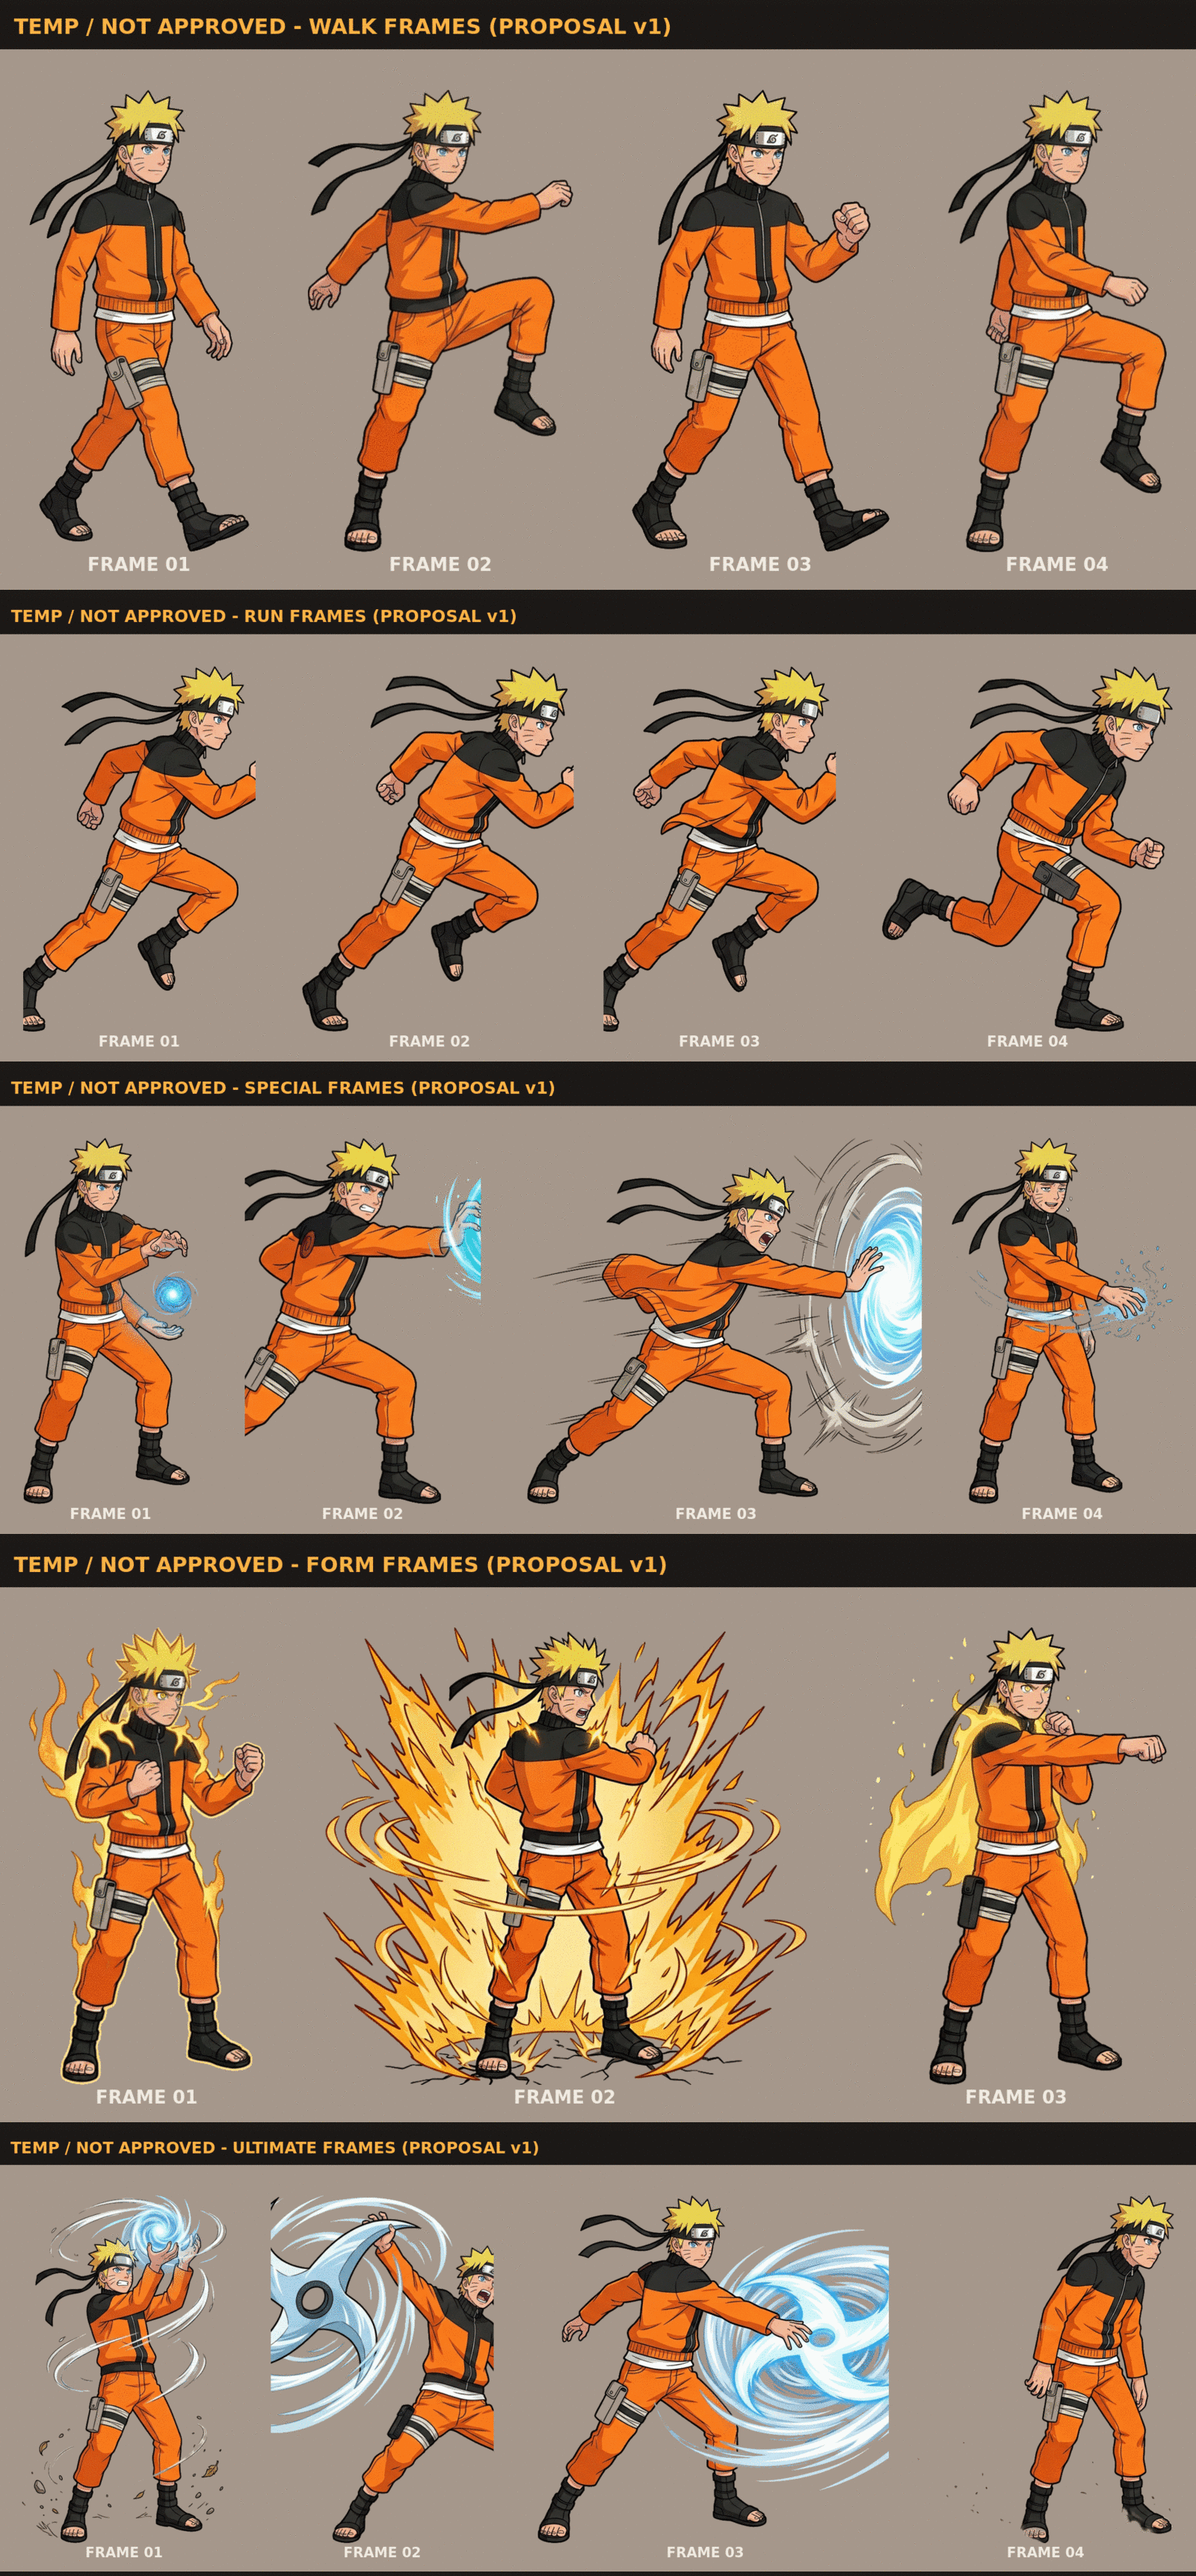
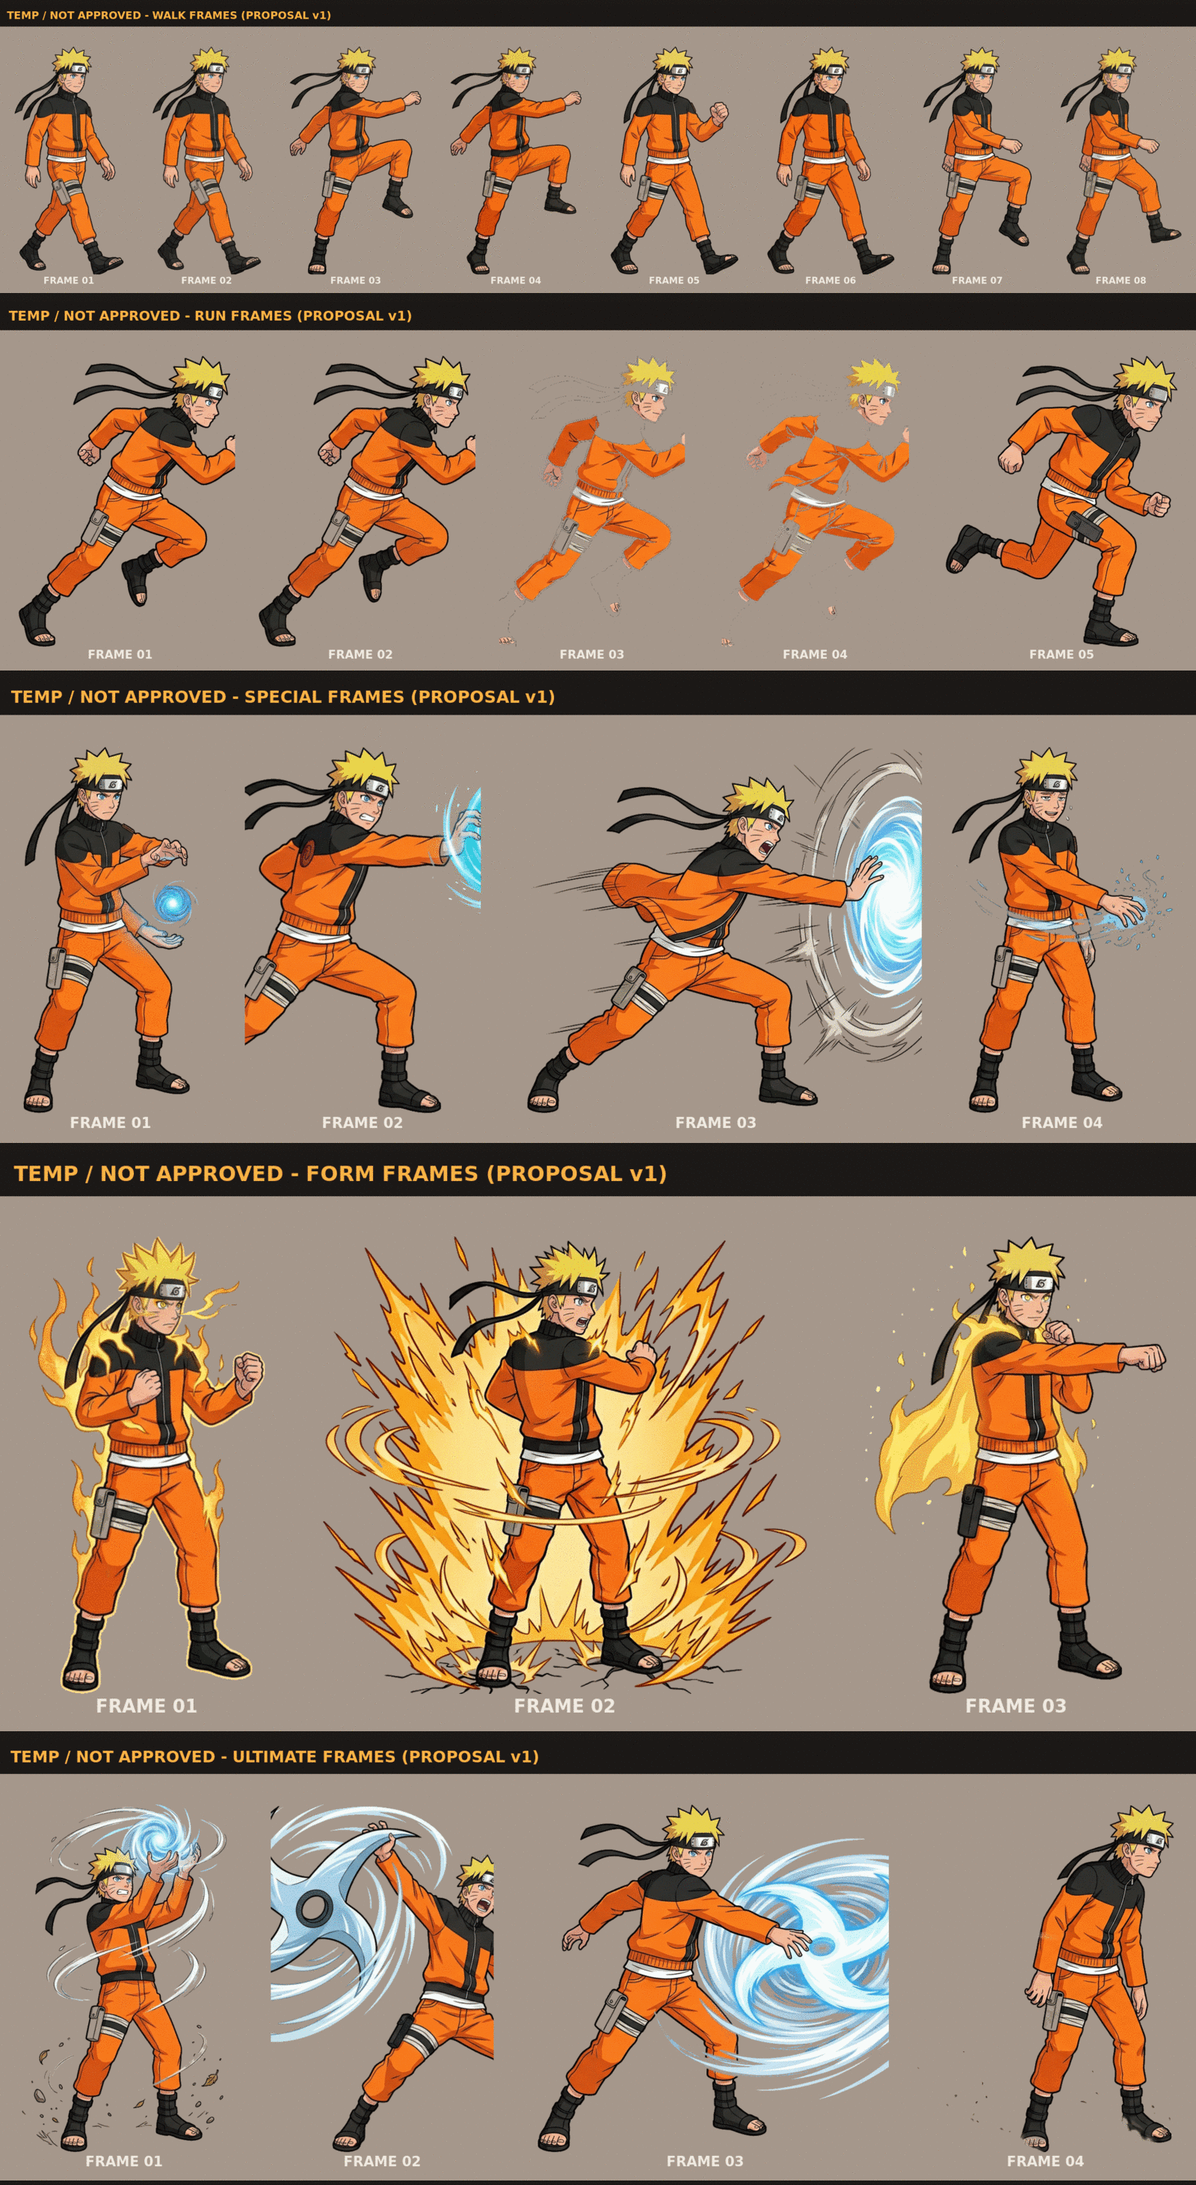
Walk cycle to a full 8 frames: in-betweens are now edits of their keyframe
The rejection was that the frames are not real motion. The cause was the method:
a fresh drawing from the concept always came back as a neutral standing pose.
In-betweens are now generated as EDITS OF THE KEYFRAME THEY FOLLOW (keyframe as
image input + three numeric deltas), so the character, costume and framing stay
put and only the pose shifts.

- walk: 4 key poses -> 8 frames, standard cycle (contact R, down, passing L,
  up/reach, contact L, down, passing R, up/reach) and it closes
- run: contact R, compression R, push-off R, flight, contact L = 5 of 8; the
  mirrored compression/push-off/flight hit the 10-image turn limit
- assembler: shave the outer 2x4 px first, because some generations draw a thin
  floor line that landed at a different height in every frame
- docs/07: the in-between method and its rationale, the rejection, the budget
  ceiling, updated frame counts
- everything is still PROPOSAL_V1 / TEMP; nothing is approved
- state index verified with --check

diff --git a/docs/07_STATE_FRAMES.md b/docs/07_STATE_FRAMES.md
@@ -24,11 +24,12 @@ rebuilt into sprites and those sprites are approved.
 ```
 assets/characters/states/
   001_naruto/
-    walk/     frame_01..04.png  walk_frames.png      walk_preview.gif
-    run/      frame_01..04.png  run_frames.png       run_preview.gif
+    walk/     frame_01..08.png  walk_frames.png      walk_preview.gif   (8, closed cycle)
+    run/      frame_01..05.png  run_frames.png       run_preview.gif    (5 of 8)
     special/  frame_01..04.png  special_frames.png   special_preview.gif
     form/     frame_01..03.png  form_frames.png      form_preview.gif
     ultimate/ frame_01..04.png  ultimate_frames.png  ultimate_preview.gif
+    state_overview.png          (all state sheets stacked, in game order)
   index.json          <- generated manifest, see tools/build_state_index.py
 ```
 
@@ -82,11 +83,31 @@ The sheets are art, but their *intent* is the timing already in
 
 | State | Frames now | Engine timing it must cover |
 |---|---|---|
-| walk | 4 (loop) | `walk_speed` 285 px/s, ground locomotion |
-| run | 4 (loop) | `run_speed` 455 px/s |
+| walk | **8 (loop)** | `walk_speed` 285 px/s, ground locomotion |
+| run | **5 of 8** | `run_speed` 455 px/s |
 | special (Rasengan) | 4 | 16 startup / 6 active / 20 recovery |
 | form (Kurama Chakra Mode) | 3 | 26 cast frames, 600-tick duration |
 | ultimate (Rasenshuriken) | 4 | 24 startup / 3 active / 32 recovery |
+
+### In-betweens: what changed after the rejection
+
+The first version had four *key* poses per cycle and nothing between them, and the
+user rejected exactly that: «تصویرای انیمیشن تایید نشد» — it does not read as
+motion. The fix is not "generate more images" but **how** the middle frames are
+drawn:
+
+* A fresh drawing from the concept always came back as a neutral standing pose,
+  because the model had no idea where in the cycle it was. Asking for a subtle
+  in-between from a text description does not work.
+* An in-between is therefore generated as an **edit of the keyframe it follows**:
+  the keyframe is the image input, and the prompt lists three numeric deltas
+  ("lower the hips by 4% of body height", "peel the back heel off the floor",
+  "arms hang slightly lower"). The model then keeps the character, costume,
+  framing and line work and only shifts the pose, which is what an in-between is.
+
+The walk cycle is now the standard 8-frame pattern and closes properly:
+contact R → down → passing (L knee up) → up (reaching) → contact L → down →
+passing (R knee up) → up (reaching) → loop.
 
 Chronology matters and is not the order the images happen to be generated in.
 Both ability sets were **reordered** after a first pass: the "sphere already
@@ -105,11 +126,10 @@ Verified by eye this turn:
   forward) → passing (left knee lifted, only the right foot down) → contact
   (opposite arm swing) → passing (right knee lifted, only the left foot down).
   The sheet and loop are in `walk/`.
-* **Run cycle is fixed.** The first pass produced two frames that were almost
-  identical to the flight poses; both were re-drawn with much harder wording
-  ("the right foot is planted flat under the hip, the knee bent 60°, the left
-  heel tucked to the buttock") and now the four frames alternate push-off →
-  planted contact → opposite flight → opposite contact.
+* **Run cycle is half-way to eight.** It has 5 frames (contact R → compression R
+  → push-off R → flight → contact L); the mirrored compression, push-off and
+  flight for the left side were not generated because the 10-image turn limit ran
+  out. Next batch finishes it.
 * **All three ability states are animated now**: Rasengan 4 frames, Kurama
   Chakra Mode 3 frames, Rasenshuriken 4 frames, each with a contact sheet and a
   looping preview.
@@ -138,15 +158,17 @@ Verified by eye this turn:
    is verified instead by `tools/build_state_index.py --check`, which fails on a
    missing frame, sheet or preview, a frame-count mismatch, or any approval
    claim that is not backed by `approvals.json`.
-5. **Approval ≠ engine.** No strips are approved. Even when one is, turning it
+5. **Turn budget.** Ten generated images per turn is the hard ceiling, which is
+   why an 8-frame cycle costs most of a turn and why the run cycle is 5 of 8.
+6. **Approval ≠ engine.** No strips are approved. Even when one is, turning it
    into sprites (fixed pixel grid, per-frame hold times from the moveset numbers,
    hit-frame alignment) is a separate stage, and that is what would finally let
    the in-game `TEMP` tag come off.
 
 ## Next
 
-1. Revise character 001's state frames until they are approvable (the user has
-   not said what to change yet), then re-submit them for approval.
+1. Finish the run cycle to 8 frames, then bring `special`, `form` and `ultimate`
+   up to 6–8 frames each so the ability states read as motion too.
 2. Repeat the state frame pipeline for characters 002–005 (each has a concept to
    draw against), one character at a time, and get each approved the same way.
 3. Build the engine-side gallery so these sheets can be reviewed inside the game

diff --git a/README.md b/README.md
@@ -62,7 +62,7 @@ any failed check.
 | Character 004 abilities: Sharingan / Kamui warp dash, Sharingan form, Kamui: Wrinkle-Dimension Slash ultimate | **mechanics + placeholder visuals** — LAB row `KAKASHI HATAKE [TEMP]` (`docs/06_KAKASHI_AND_ITACHI_ABILITIES.md`) |
 | Character 005 abilities: Amaterasu flame, Tsukuyomi form, Susanoo: Totsuka Blade Seal ultimate | **mechanics + placeholder visuals** — LAB row `ITACHI UCHIHA [TEMP]` (`docs/06_KAKASHI_AND_ITACHI_ABILITIES.md`) |
 | Stat-driven damage, support (heal) moves, timed projectiles | working — dataset `atk` scales damage, forms add a multiplier, `heal` cannot overheal |
-| State frames (walk / run / special / form / ultimate) with normalised frame sheets and looping previews | **proposal art, NOT approved** — 19 frames across 5 states for character 001; the 2026-11-08 approval was revoked the same day by the user (`docs/07_STATE_FRAMES.md`, `docs/08_APPROVALS.md`) |
+| State frames (walk / run / special / form / ultimate) with normalised frame sheets and looping previews | **proposal art, NOT approved** — 24 frames across 5 states for character 001 (walk 8, run 5, special 4, form 3, ultimate 4); the 2026-11-08 approval was revoked the same day by the user (`docs/07_STATE_FRAMES.md`, `docs/08_APPROVALS.md`) |
 | Rounds, rounds-to-win, optional timer, K.O./time-up, winner, rematch, return to menu | working |
 | AI opponent (approach, spacing, attack, block, meter usage) with delayed perception | working |
 | Dungeon: seeded layout, connectivity validation, rooms, doors that lock during fights, trap with telegraph, loot, rest pad, boss with 3 readable patterns, win/lose/restart | working (temporary shapes) |
